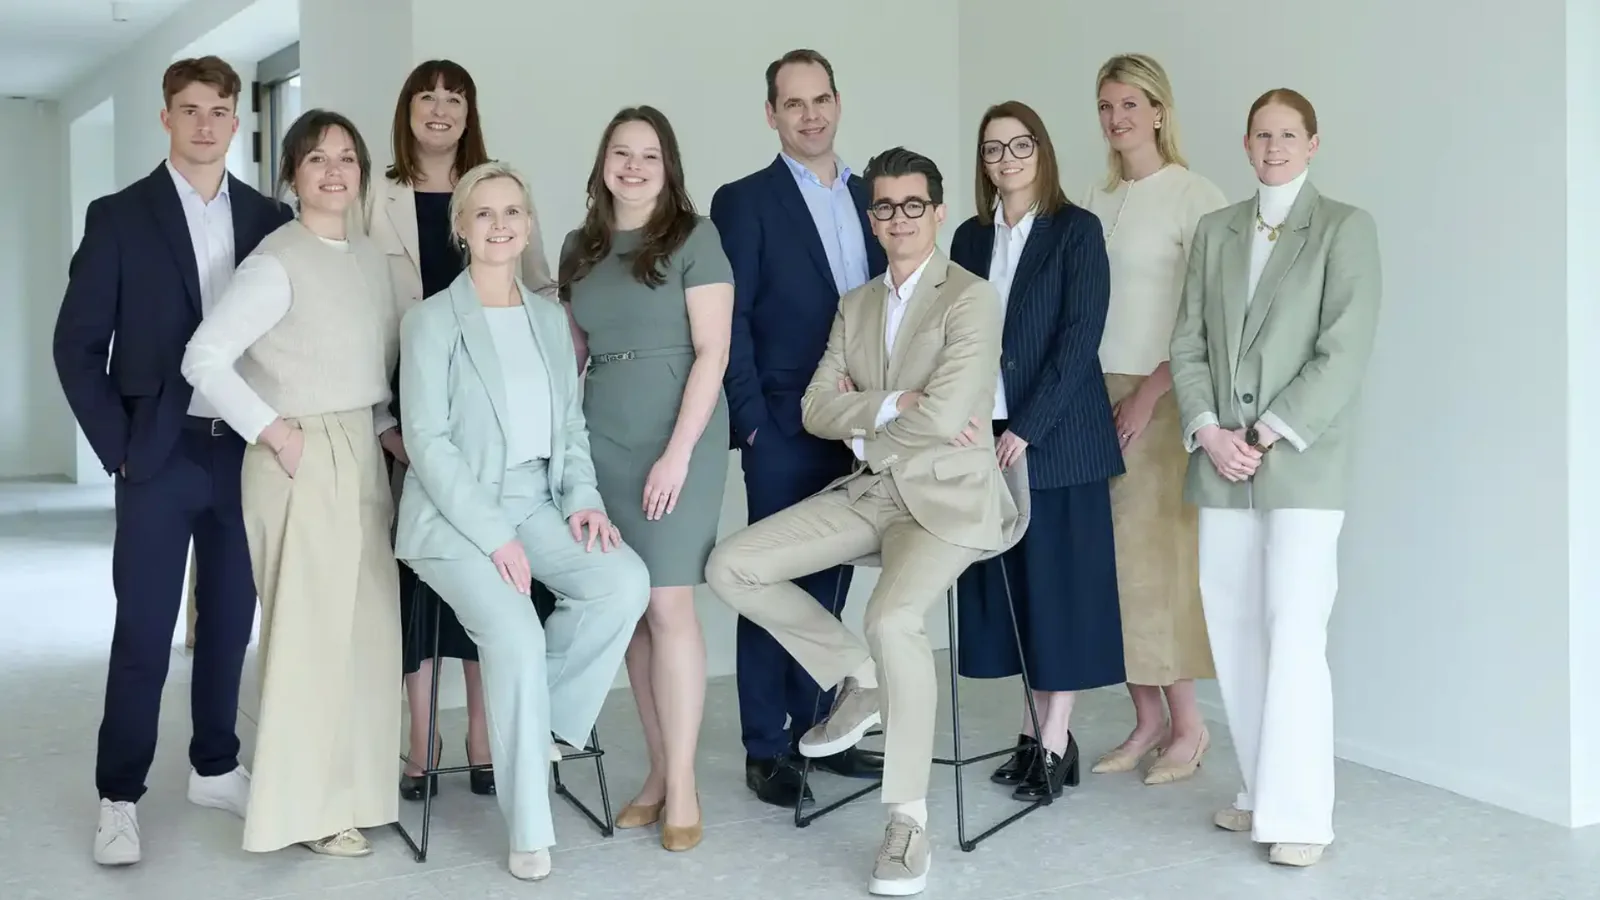
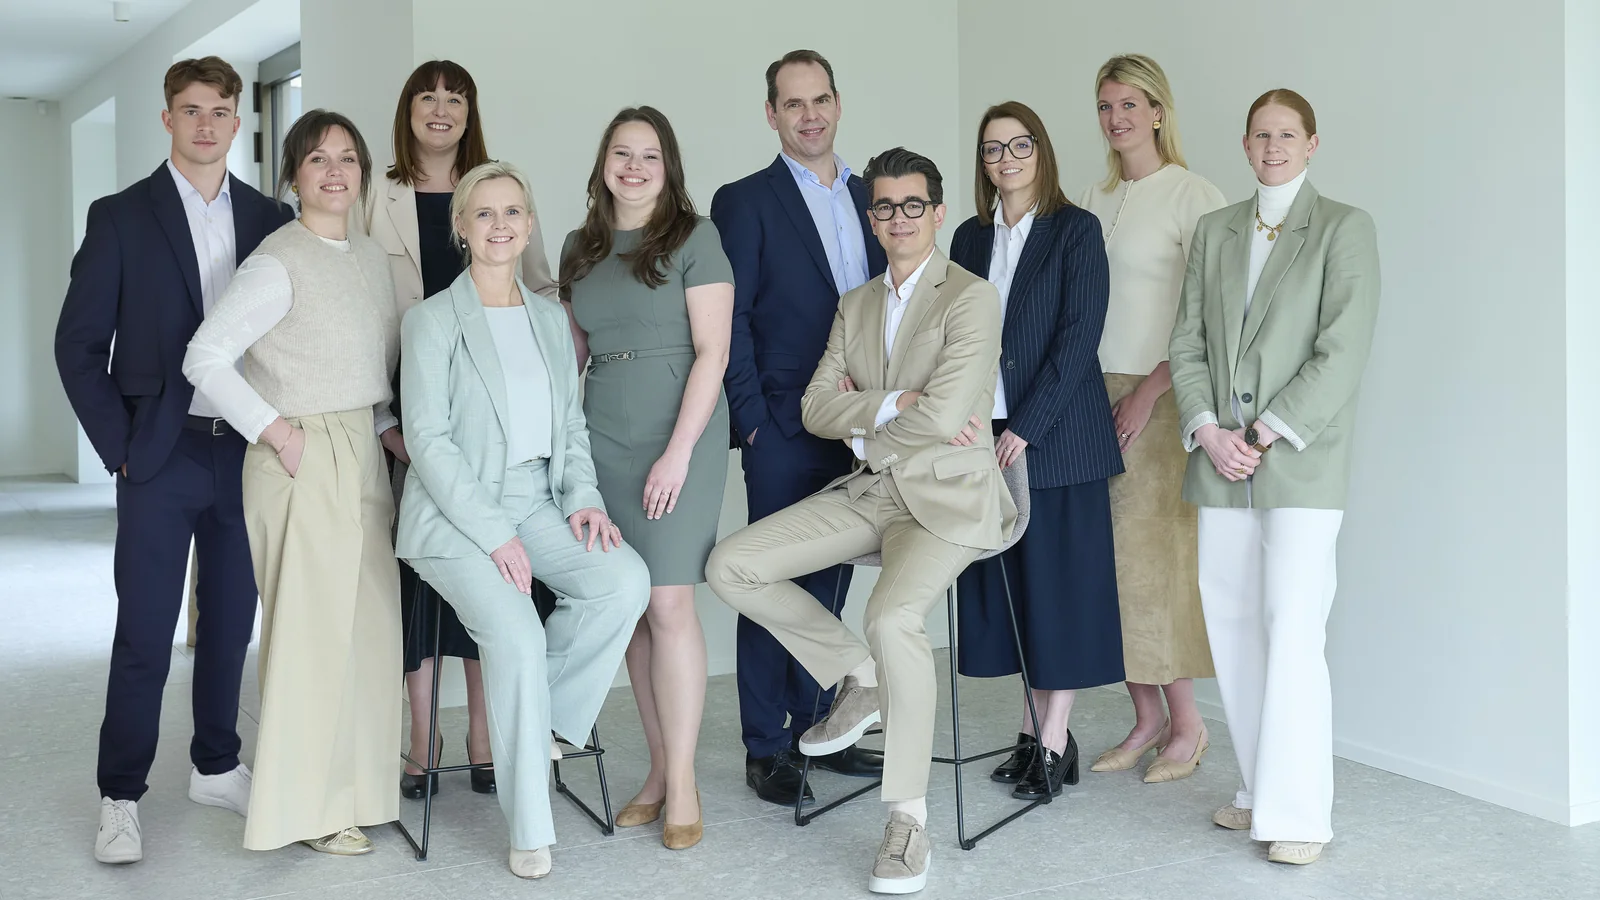
Vervang de groepsfoto door het origineel
De vorige kwam uit een schermafdruk van een WeTransfer-voorbeeld. Nu uit
'Hires Polares WAL_1831B', 6548x4366. Bijgesneden op 16:9 met de snede 220
pixels lager dan eerst, want bij een bijsnede recht van boven verdwenen de
kruinen van een paar mensen.

Twee maten, zodat een scherm met hoge resolutie de scherpe krijgt en een
gewoon scherm niet onnodig zwaar laadt: 1600px (121 kB) en 2400px (250 kB).

diff --git a/ons-team.html b/ons-team.html
@@ -257,7 +257,10 @@
     </section>
 
     <figure class="team-groep">
-      <img src="assets/team/groep.webp" alt="Het team van Polares" width="1600" height="900" loading="lazy" decoding="async">
+      <img src="assets/team/groep.webp"
+           srcset="assets/team/groep.webp 1600w, assets/team/groep-2x.webp 2400w"
+           sizes="(min-width: 1360px) 1200px, 92vw"
+           alt="Het team van Polares" width="1600" height="900" loading="lazy" decoding="async">
     </figure>
 
     <ul class="team-grid" aria-label="De medewerkers van Polares">
